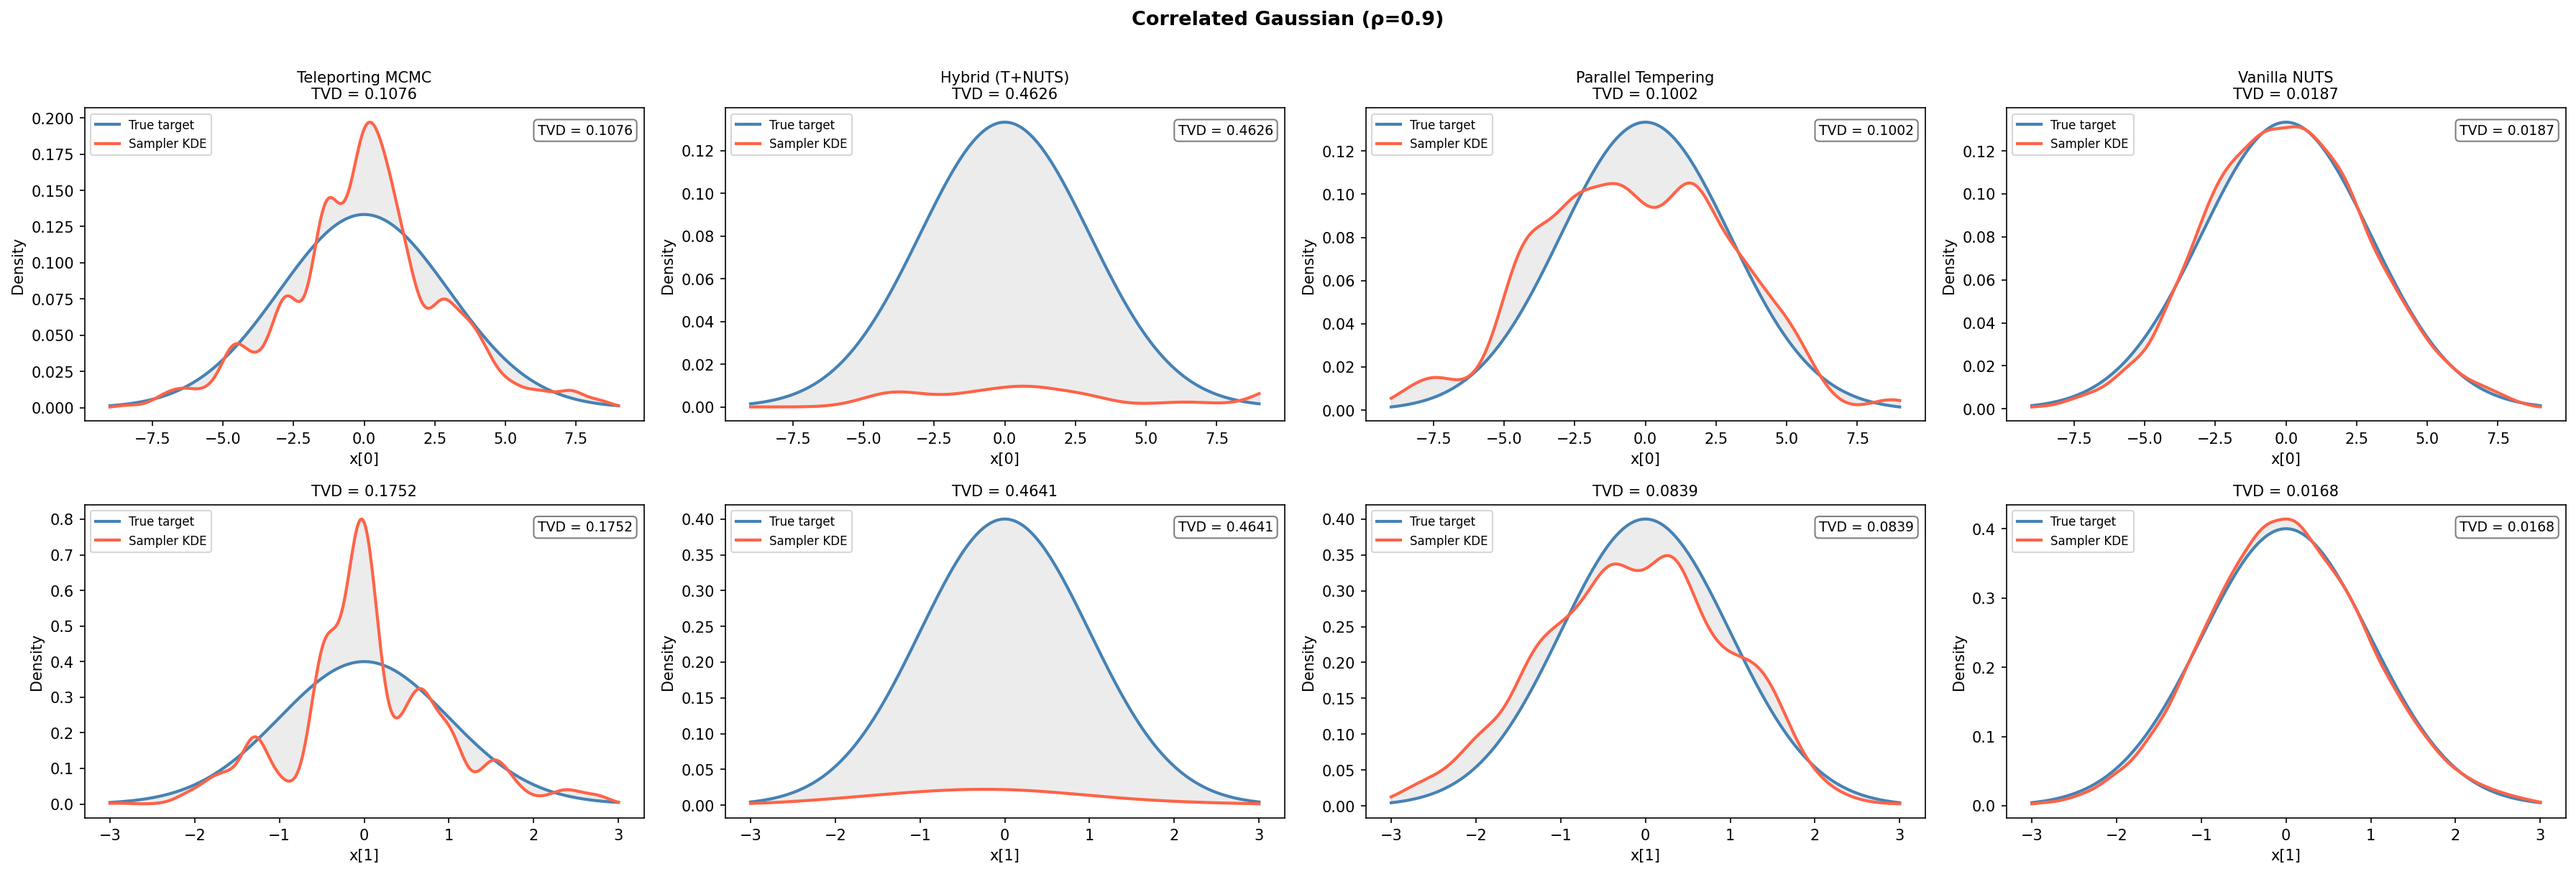
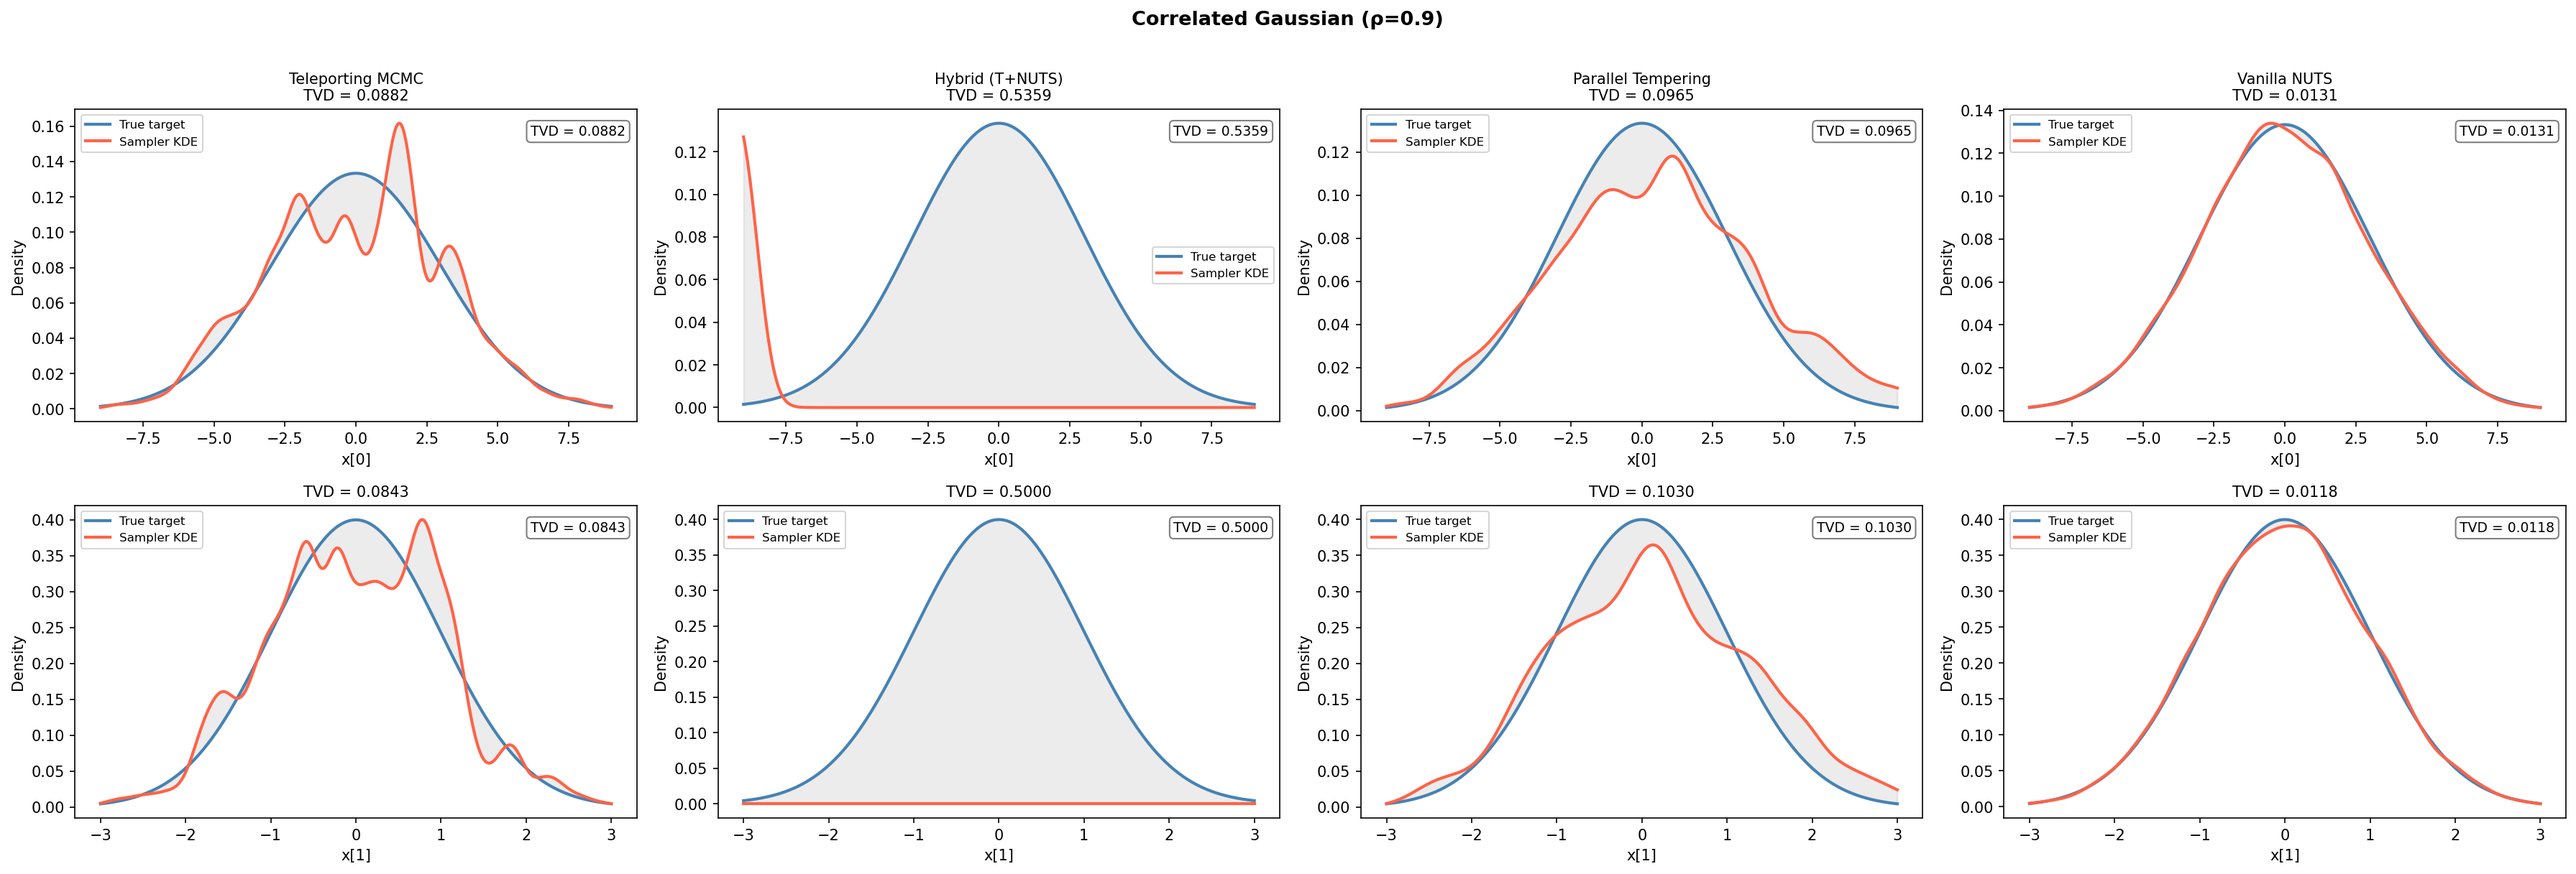
Update experiment iterations and results

diff --git a/main.py b/main.py
@@ -29,6 +29,9 @@ SLUGS = [
     "bimodal_large", "unequal_weight", "different_scale",
 ]
 
+NUM_ITER = 5000
+WARMUP_FRACTION = 0.25
+
 
 def _setup_dirs():
     os.makedirs("results/comparison", exist_ok=True)
@@ -78,13 +81,13 @@ def _save_hybrid_fig(chains, scenario):
 # Per-scenario runner
 # ------------------------------------------------------------------
 
-def run_scenario(scenario, rng, num_iter=2000):
+def run_scenario(scenario, rng, num_iter=NUM_ITER):
     slug           = scenario["slug"]
     pi_fn          = scenario["pi_fn"]
     d              = scenario["d"]
     x_range        = scenario["x_range"]
     proposal_sigma = scenario["proposal_sigma"]
-    warmup         = num_iter // 4
+    warmup         = int(num_iter * WARMUP_FRACTION)
     N_walkers      = 8
 
     param_names = ["x"] if d == 1 else [f"x[{i}]" for i in range(d)]
@@ -247,8 +250,11 @@ def main():
     _setup_dirs()
 
     rng       = np.random.default_rng(221)
-    num_iter  = 2000
+    num_iter  = NUM_ITER
+    warmup    = int(num_iter * WARMUP_FRACTION)
     scenarios = make_scenarios(rng)
+
+    print(f"Running {num_iter} iterations with {warmup} warmup iterations.")
 
     all_rows = []
     for scenario in scenarios:
